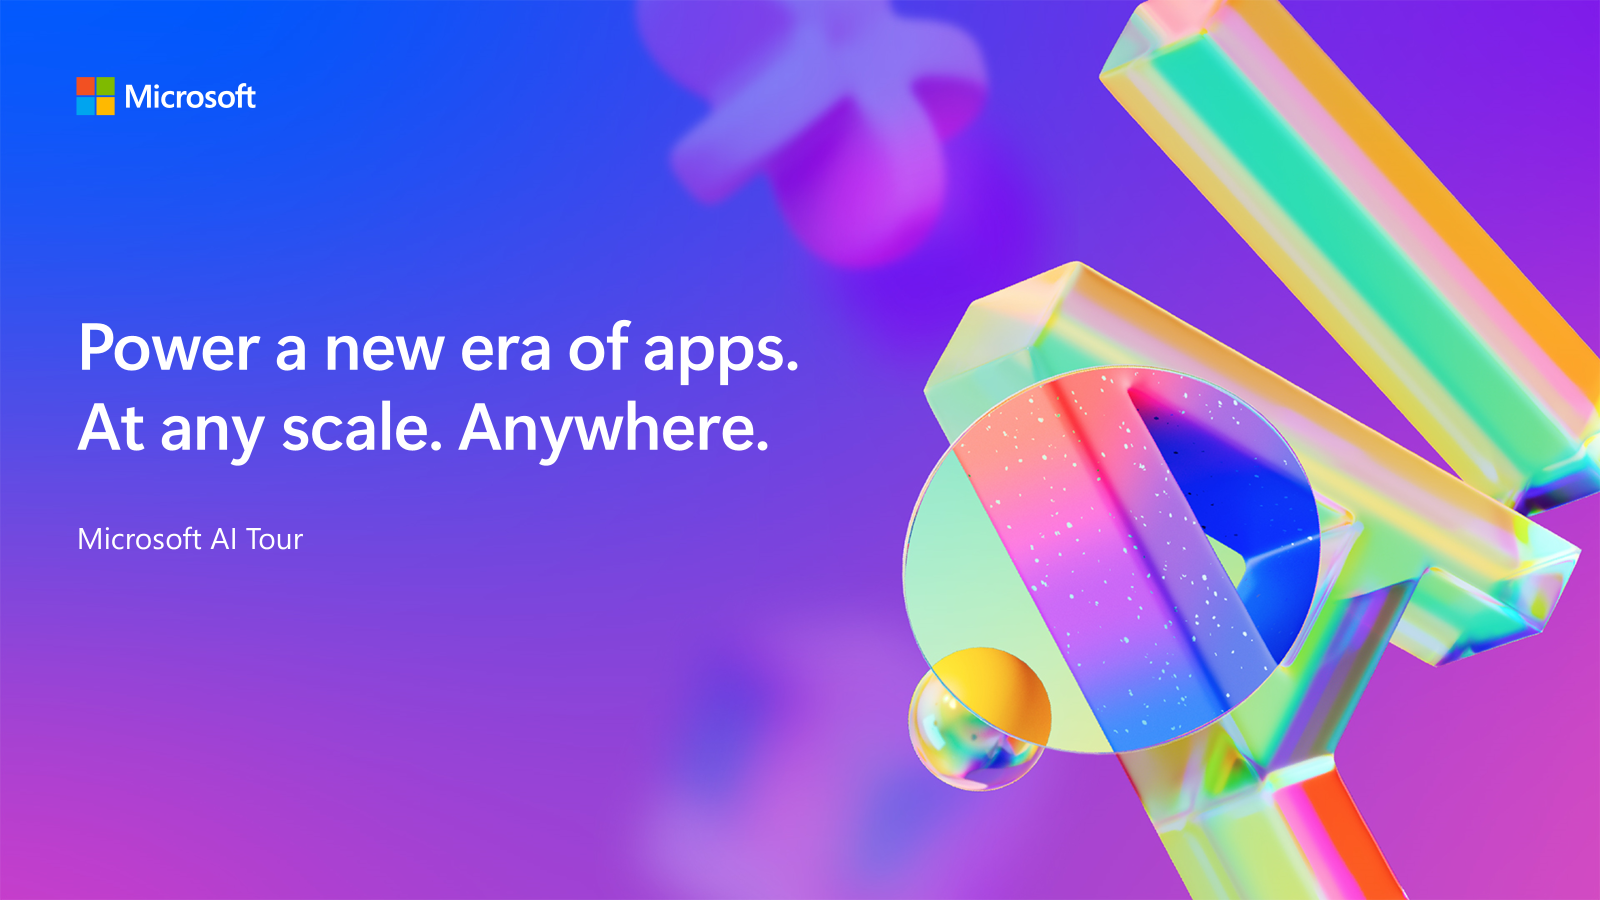
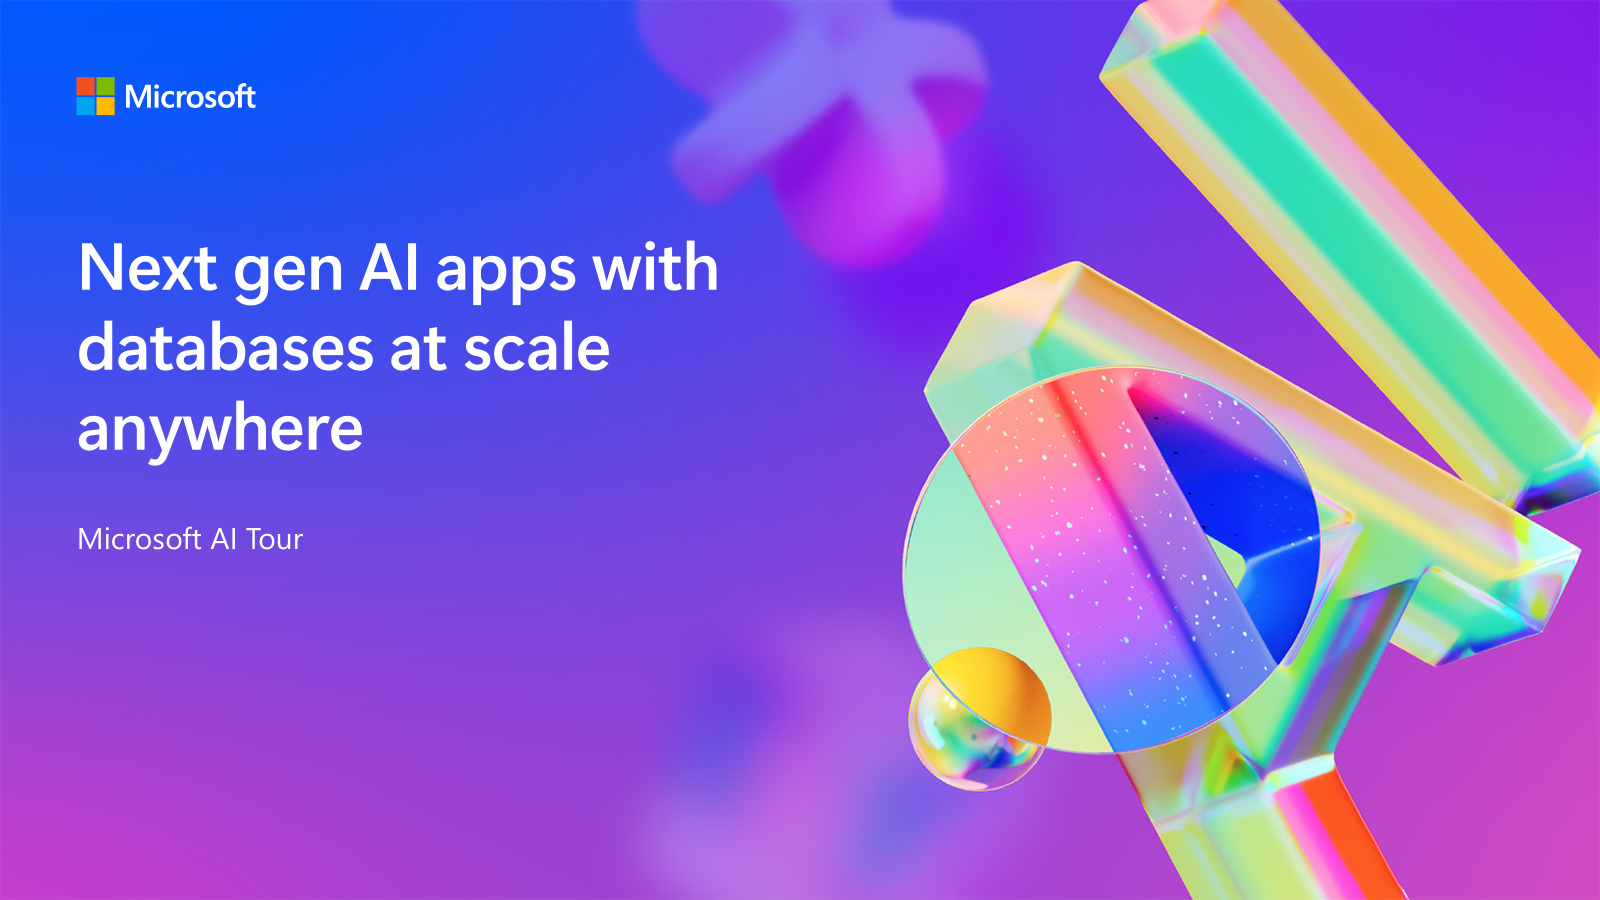
update session title

Changed region(s): [[0.0312, 0.2489, 0.5, 0.5289]]

diff --git a/README.md b/README.md
@@ -1,4 +1,4 @@
-# Power a new era of apps. At any scale. Anywhere.
+# Next gen AI apps with databases at scale anywhere
 
 This repo is a companion to this session at Microsoft AI Tour, a worldwide tour of events.
 
